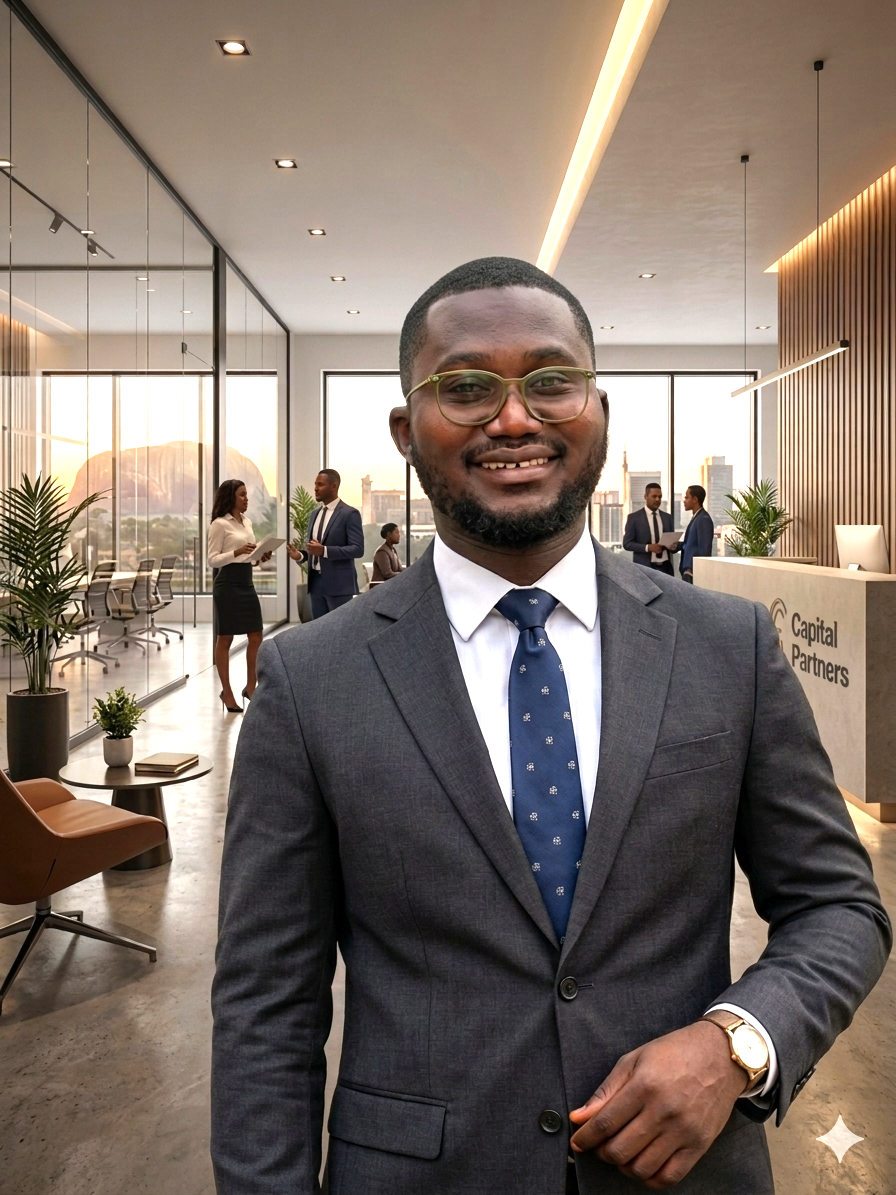
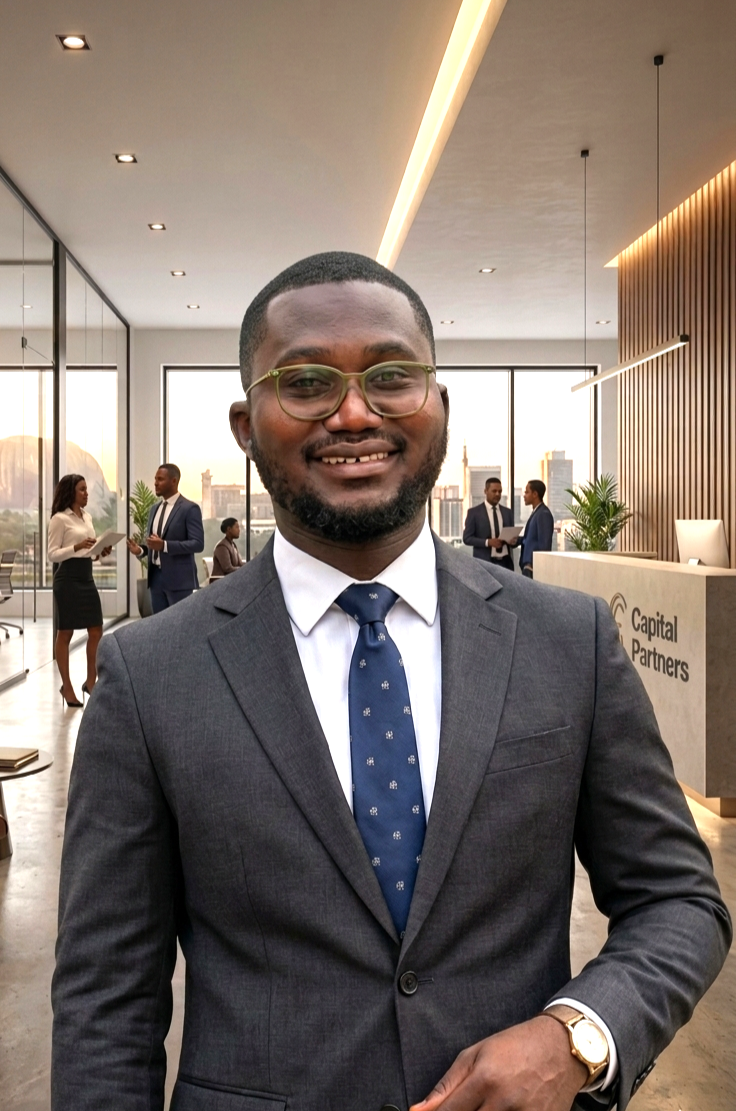
done

diff --git a/app/components/Footer.tsx b/app/components/Footer.tsx
@@ -44,8 +44,9 @@ const Footer = () => {
           {/* BRAND & SOCIALS SECTION */}
           <div className="md:col-span-2 lg:col-span-4 space-y-6 text-left">
             <img src="/logo.png" alt="4Brothers Logistics" className="h-9 w-auto object-contain" />
-            <p className="text-slate-400 leading-relaxed text-sm max-w-sm">
-              Premium logistics and transport solutions based in Abuja. We move your business forward with speed, safety, and integrity.
+            <p className="text-zinc-300 leading-relaxed text-sm max-w-sm">
+              Premium logistics and transport solutions based<br /> in Abuja. 
+              We move your business forward with <br /> speed, safety, and integrity.
             </p>
             {/* Expanded social links container for easier tapping on mobile */}
             <div className="flex flex-wrap gap-4 pt-2">
@@ -69,11 +70,11 @@ const Footer = () => {
           {/* LINKS SECTION (Two structural columns on mobile, clean columns on desktop) */}
           <div className="lg:col-span-4 grid grid-cols-2 gap-8 sm:gap-6">
             <div>
-              <h4 className="text-xl font-bold tracking-wider text-white uppercase mb-5 mt-10">Company</h4>
+              <h4 className="text-xl font-bold tracking-wider text-red-500 uppercase mb-5 mt-10">Company</h4>
               <ul className="space-y-4">
                 {footerLinks.company.map((link) => (
                   <li key={link.name}>
-                    <Link href={link.href} className="text-slate-400 hover:text-red-500 text-sm transition-colors flex items-center gap-2 group py-1">
+                    <Link href={link.href} className="text-slate-400 hover:text-white text-sm transition-colors flex items-center gap-2 group py-1">
                       <ArrowRight size={12} className="hidden sm:inline-block opacity-0 group-hover:opacity-100 transition-all -ml-4 group-hover:ml-0" />
                       {link.name}
                     </Link>
@@ -83,11 +84,11 @@ const Footer = () => {
             </div>
 
             <div>
-              <h4 className="text-xl font-bold tracking-wider text-white uppercase mb-5 mt-10">Support</h4>
+              <h4 className="text-xl font-bold tracking-wider text-red-500 uppercase mb-5 mt-10">Support</h4>
               <ul className="space-y-4">
                 {footerLinks.support.map((link) => (
                   <li key={link.name}>
-                    <Link href={link.href} className="text-slate-400 hover:text-red-500 text-sm transition-colors flex items-center gap-2 group py-1">
+                    <Link href={link.href} className="text-slate-400 hover:text-white text-sm transition-colors flex items-center gap-2 group py-1">
                       <ArrowRight size={12} className="hidden sm:inline-block opacity-0 group-hover:opacity-100 transition-all -ml-4 group-hover:ml-0" />
                       {link.name}
                     </Link>
@@ -100,7 +101,7 @@ const Footer = () => {
           {/* CONTACT SECTION (Stacks beautifully underneath links on mobile layouts) */}
           <div className="md:col-span-2 lg:col-span-4">
             <div className="bg-white/2 p-6 sm:p-8 rounded-3xl border border-white/5 shadow-2xl backdrop-blur-sm">
-              <h4 className="text-xs font-bold tracking-widest text-slate-400 uppercase mb-5">Get In Touch</h4>
+              <h4 className="text-xs font-bold tracking-widest text-red-500 uppercase mb-5">Get In Touch</h4>
               <ul className="space-y-4">
                 <li className="flex items-start gap-4">
                   <div className="bg-red-500/10 p-2.5 rounded-xl shrink-0 mt-0.5">

diff --git a/app/page.tsx b/app/page.tsx
@@ -107,7 +107,7 @@ const [isMenuOpen, setIsMenuOpen] = React.useState(false);
               rel="noopener noreferrer"
               whileHover={{ scale: 1.03, backgroundColor: '#1d4ed8' }} 
               whileTap={{ scale: 0.98 }}
-              className="w-full bg-red-600 text-white font-black px-10 py-5 rounded-full transition-all shadow-2xl shadow-red-200 flex items-center justify-center gap-2 uppercase tracking-[0.2em] text-lg group"
+              className="w-[70%] bg-red-600 text-white font-black px-10 py-5 rounded-full transition-all shadow-2xl shadow-red-200 flex items-center justify-center gap-2 uppercase tracking-[0.2em] text-lg group"
             >
               Book Now <ChevronRight size={22} className="group-hover:translate-x-1 transition-transform" />
             </motion.a>

diff --git a/app/about/page.tsx b/app/about/page.tsx
@@ -245,7 +245,7 @@ const AboutPage = () => {
         >
           <div className="absolute -top-24 -right-24 w-96 h-96 bg-blue-600/10 rounded-full blur-[120px] group-hover:bg-blue-600/20 transition-colors"></div>
           <Users className="text-red-600 mb-10" size={48} />
-          <h3 className="text-5xl font-black mb-8 tracking-tighter italic">The 4Brothers Bond</h3>
+          <h3 className="text-5xl font-black mb-8 tracking-tighter italic uppercase">The 4Brothers Bond</h3>
           <p className="text-slate-400 leading-relaxed text-xl max-w-xl font-medium">
             Founded in Abuja, we operate on deep-rooted family values. Every delivery is handled with the personal care of a brother, ensuring your cargo is never just a tracking number.
           </p>

diff --git a/app/components/BookingForm.tsx b/app/components/BookingForm.tsx
@@ -99,7 +99,7 @@ const BookingForm = () => {
 
           <button 
             type="submit"
-            className="w-full bg-red-600 hover:bg-red-700 text-white hover:cursor-pointer p-5 rounded-2xl font-black text-lg shadow-xl shadow-red-200/50 transition-all transform hover:scale-[1.02] flex justify-center items-center gap-3 mt-4"
+               className="mx-auto flex w-fit items-center gap-5 rounded-xl font-[12px] uppercase text-white bg-red-600 px-8 py-4 mb-8 shadow-sm  transition-colors group"
           >
           Instant Quote<Send size={20} />
           </button>

diff --git a/app/components/Navbar.tsx b/app/components/Navbar.tsx
@@ -70,7 +70,7 @@ const Navbar = () => {
           <a href={`tel:${phoneNumber}`} className="text-red-600 p-2">
             <Phone size={24} fill="currentColor" />
           </a>
-          <button onClick={toggleMenu} className="p-2 text-white">
+          <button onClick={toggleMenu} className=" text-white">
             {isMenuOpen ? <X size={28} /> : <Menu size={28} />}
           </button>
         </div>
